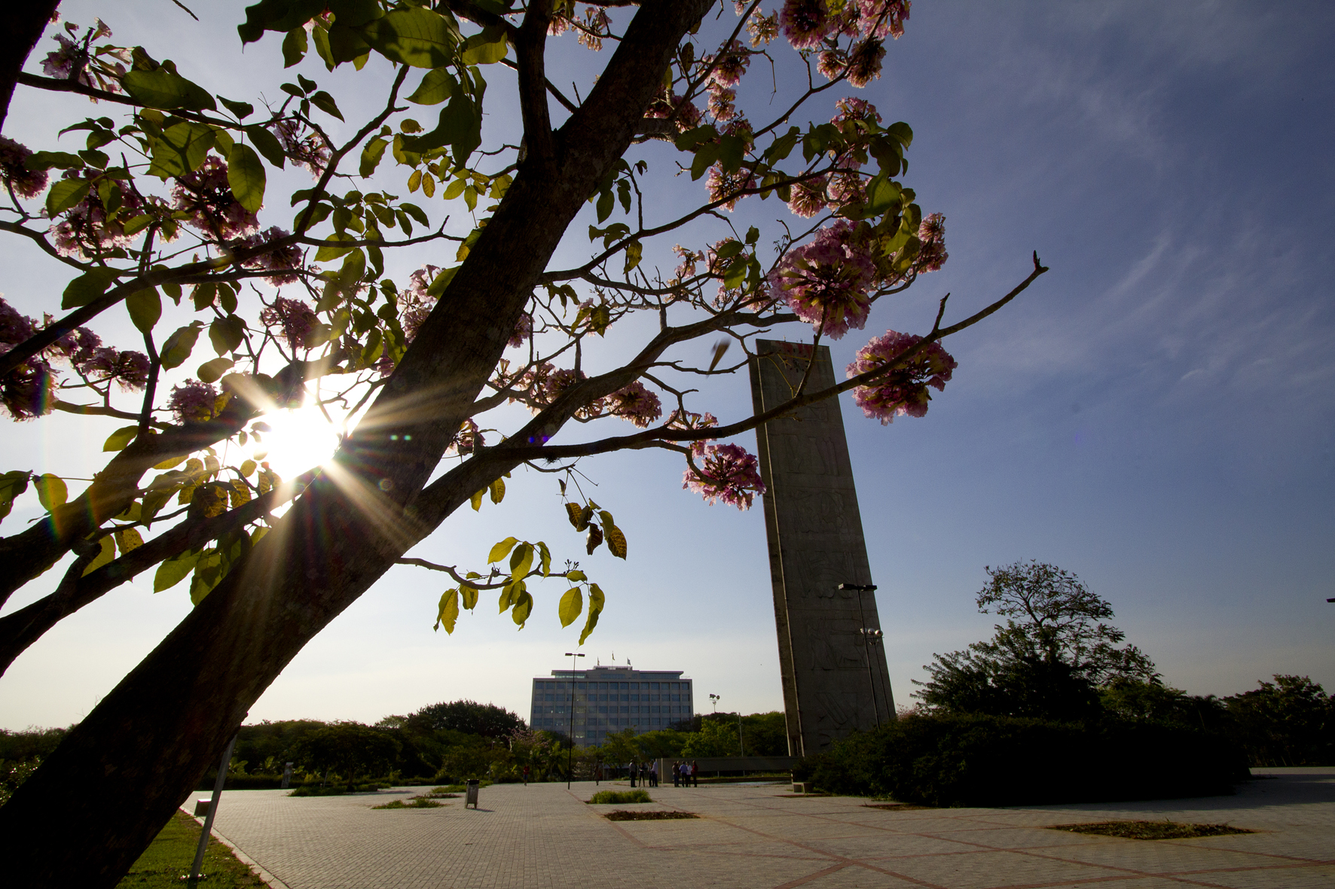
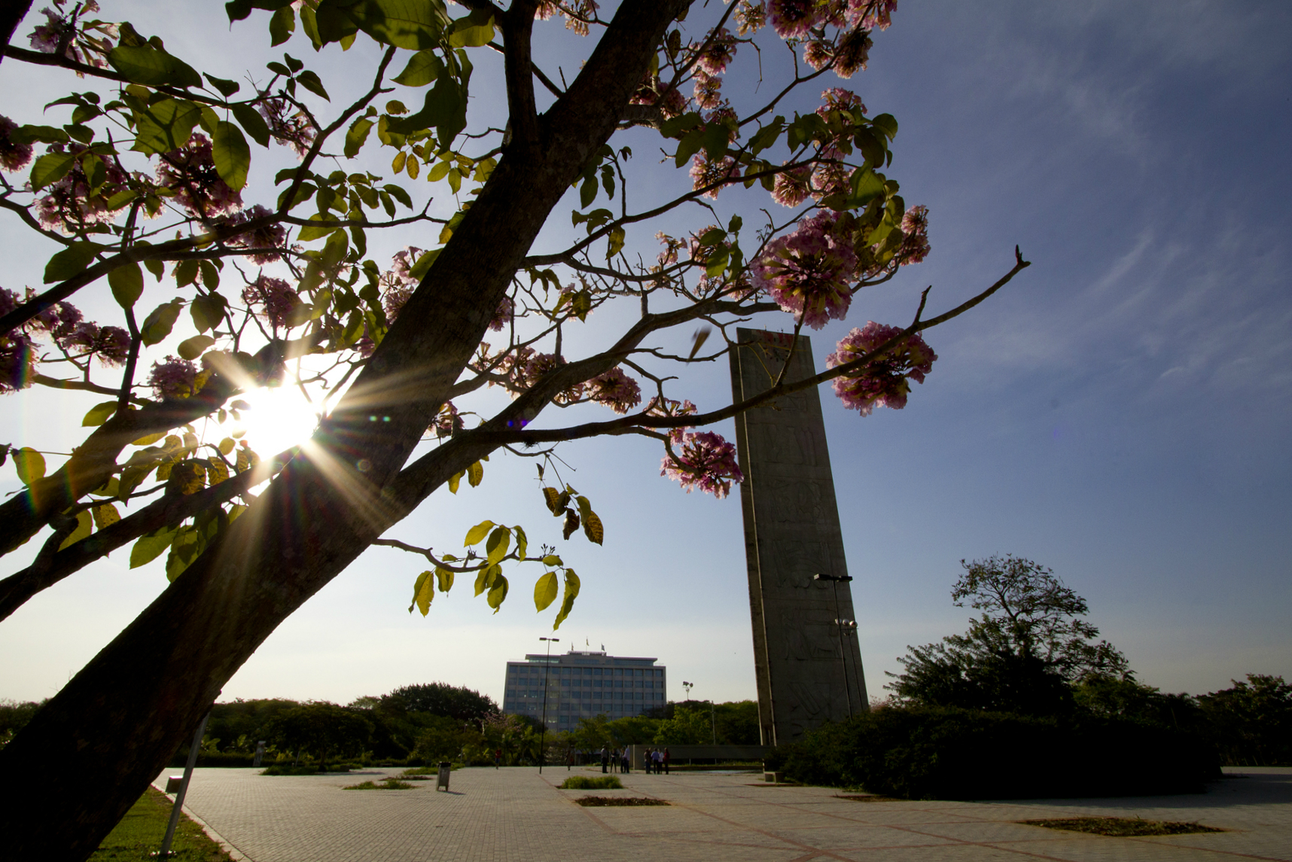
Ajuste da imagem inicial.

diff --git a/dspace/modules/jspui/src/main/webapp/static/css/bdpi/bdpi-theme.css b/dspace/modules/jspui/src/main/webapp/static/css/bdpi/bdpi-theme.css
@@ -4393,7 +4393,7 @@ a.list-group-item.active > .badge,
   padding:20px;
   color: inherit;
   background: url("../../../image/08102014imagensdocampusfotomarcossantos015.jpg") no-repeat center center;
-  background-position: center center;
+  background-position: center 80%;
   width: 100%;
   min-height:400px;
   -webkit-background-size: cover;
